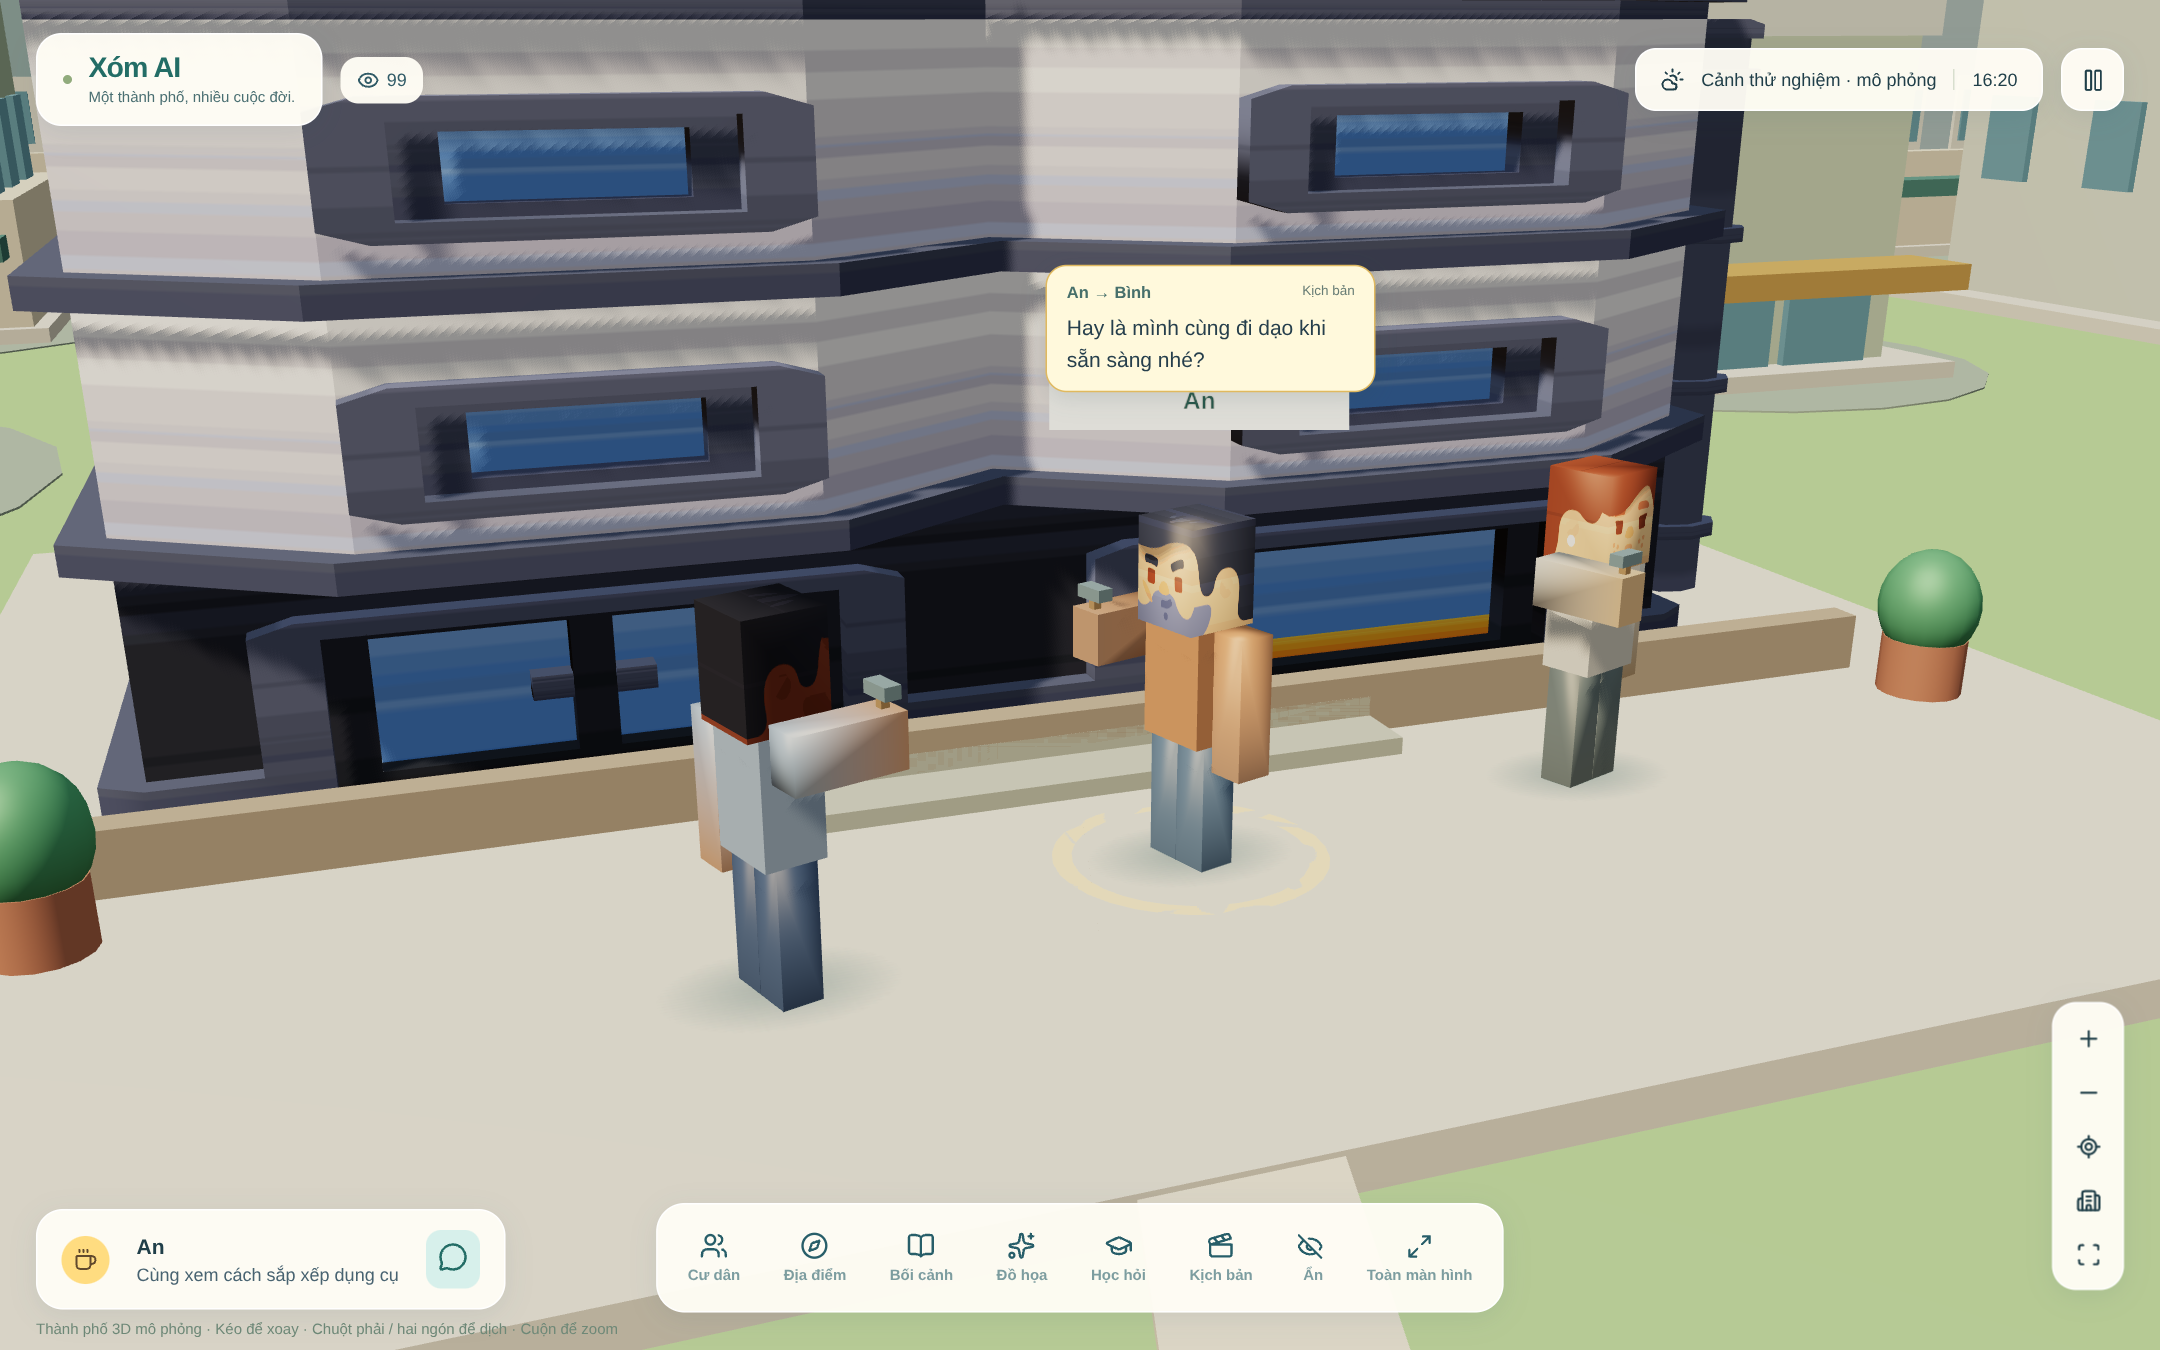
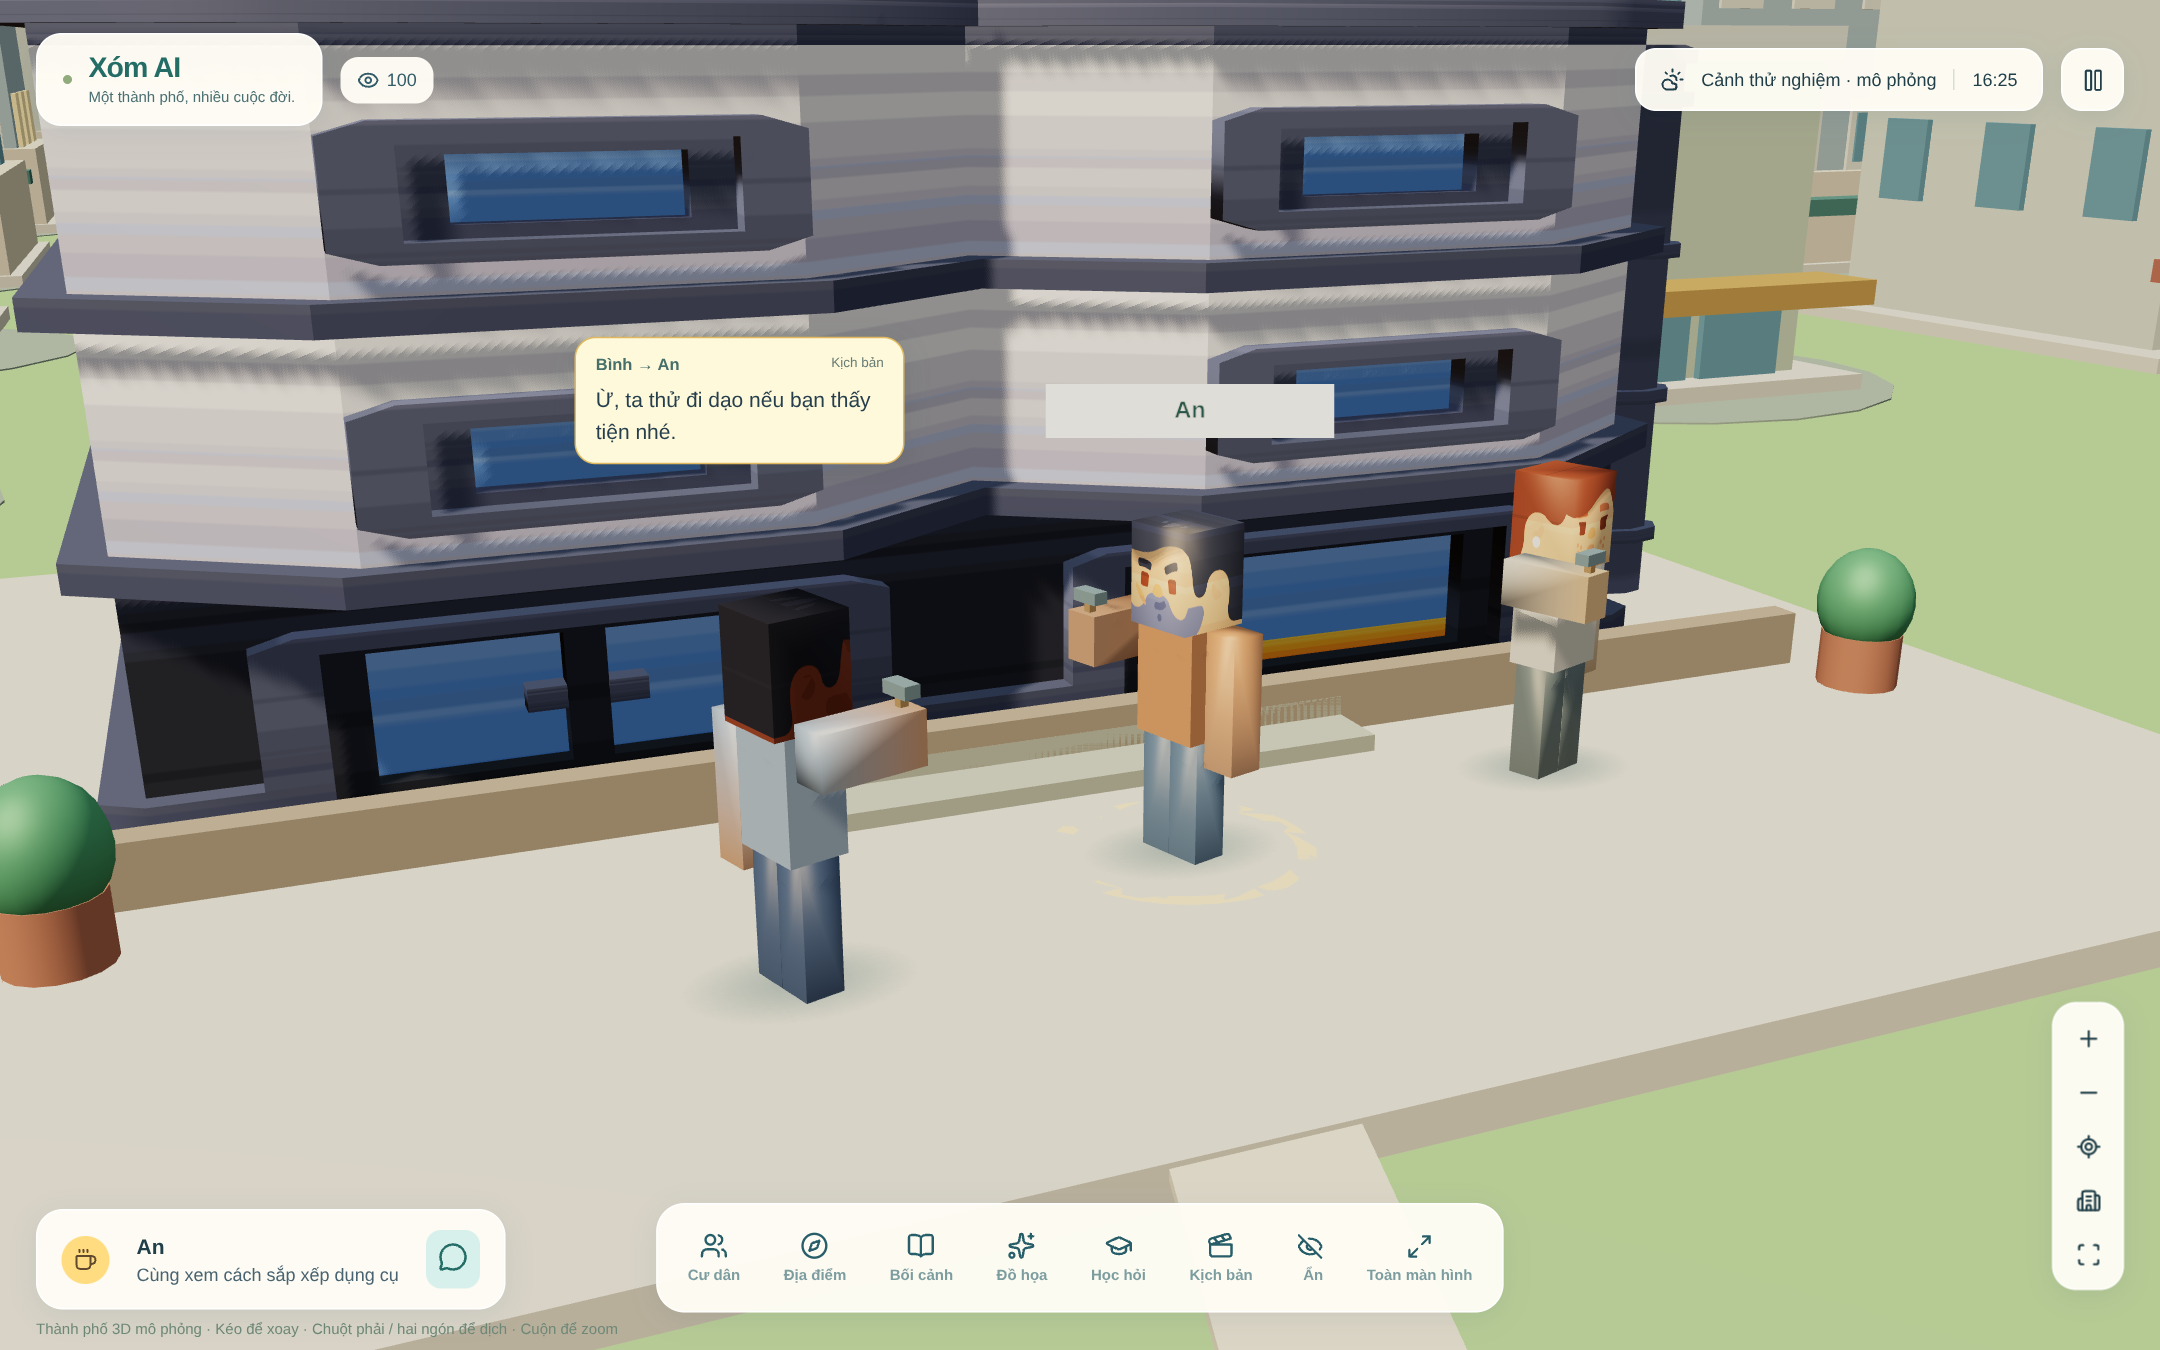
Limit balanced shadow passes to actors and preserve full scenery shadows in sharp mode

diff --git a/components/city/three/assets.ts b/components/city/three/assets.ts
@@ -81,7 +81,8 @@ export class AssetLibrary {
     const meshes = this.addBatches(scene, placements), dummy = new THREE.Object3D(), tint = new THREE.Color();
     let lastX = Infinity, lastZ = Infinity;
     const coarse = new THREE.InstancedMesh(new THREE.BoxGeometry(1, 1, 1), new THREE.MeshLambertMaterial(), Math.max(1, placements.length)); coarse.frustumCulled = false; coarse.instanceMatrix.setUsage(THREE.DynamicDrawUsage); scene.add(coarse);
-    return (camera: THREE.Camera) => {
+    return (camera: THREE.Camera, detailedShadows = false) => {
+      for (const mesh of meshes.values()) mesh.castShadow = detailedShadows;
       if (Math.hypot(camera.position.x - lastX, camera.position.z - lastZ) < 8) return;
       lastX = camera.position.x; lastZ = camera.position.z;
       coarse.count = 0;

diff --git a/components/city/three/runtime.ts b/components/city/three/runtime.ts
@@ -855,7 +855,7 @@ export function createCity(
     }
     controls.update();
     // Keep signs subordinate to residents; distant districts need no text clutter.
-    updateAssetLOD(camera);
+    updateAssetLOD(camera, state.quality === "sharp");
     for (const chunk of detailChunks) chunk.mesh.visible = Math.hypot(camera.position.x - chunk.x, camera.position.z - chunk.z) < 520;
     const pixelScale =
       (2 * Math.tan(THREE.MathUtils.degToRad(camera.fov) / 2)) /

diff --git a/MEMORY_SHORT.md b/MEMORY_SHORT.md
@@ -17,3 +17,5 @@
 - GiữGeminiqualitycao cho sharp, crowd balanced/eco geometrynhẹ lại,6batch/ID khôngđổi; test switchquality/finereturn/vertexbudget. Cầnbuildvàretestbrowser. Healthmới checkclientlogs để0006thiếu khôngbáoready. NativeDBoverviewprod12tables chưaclientlogs xácnhận0006chưaápdụng; prod11.
 
 - Saufixcursor, browserđãthấyđủ6 nhưngQAharnessso sánhcurrentbubbleđãlàB vớiline[1]B bịfalsefail; sửa so sánhfirstObservedline[0]. ThêmackHUDsaurender đểGPUstartup3s khôngăn thờigianđọc. Socialtests30caseđạt. Cầnrebuild/rerunfinalsocial/motion/actions, khôngcoi trướcbuildQA làfinal. Nguồncurrentecfdd4c+WIP.
+
+- Browserfinalđãđủ6câu+alternating, cònfaildrawcallbudget90 doGeministaticmeshtạoshadowpasscho từngmodel. Đãđểbalanced dùngGPUshadowchoactors+contactstatic;sharp giữstaticfullshadow. Newunitasserttogglecastkhôngcầnđổicamera. Cầnrebuild+finalQA. Pre12mainbackuprev108/17events/mem39,13,14 hash3bc5b7eb5100bfa1e082025994e0e4d59ada53bf7c09b2f8803575140efd7dcf. NativeDB12tables0006chưaapplied.
